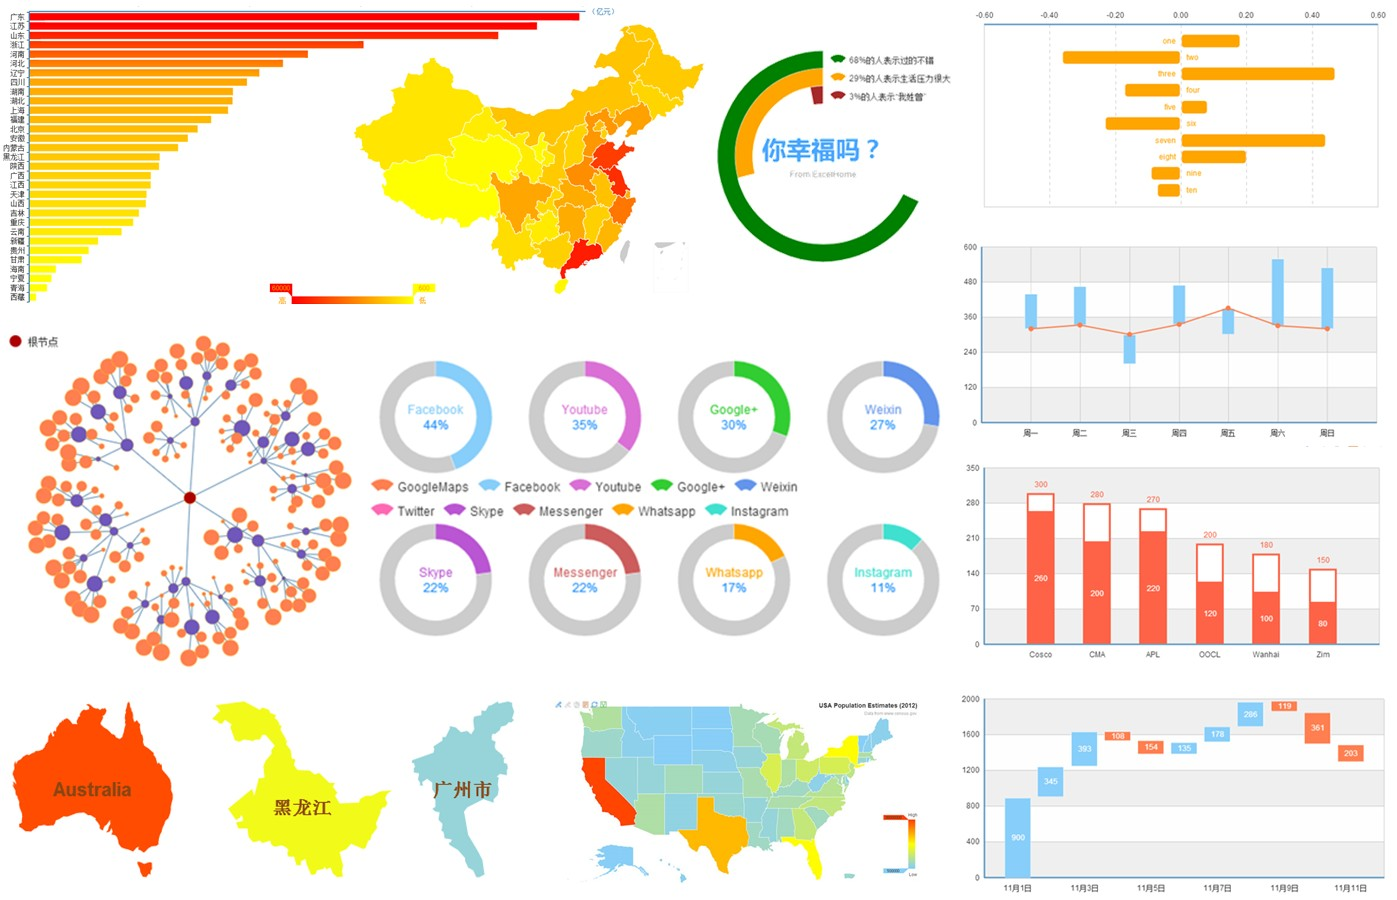
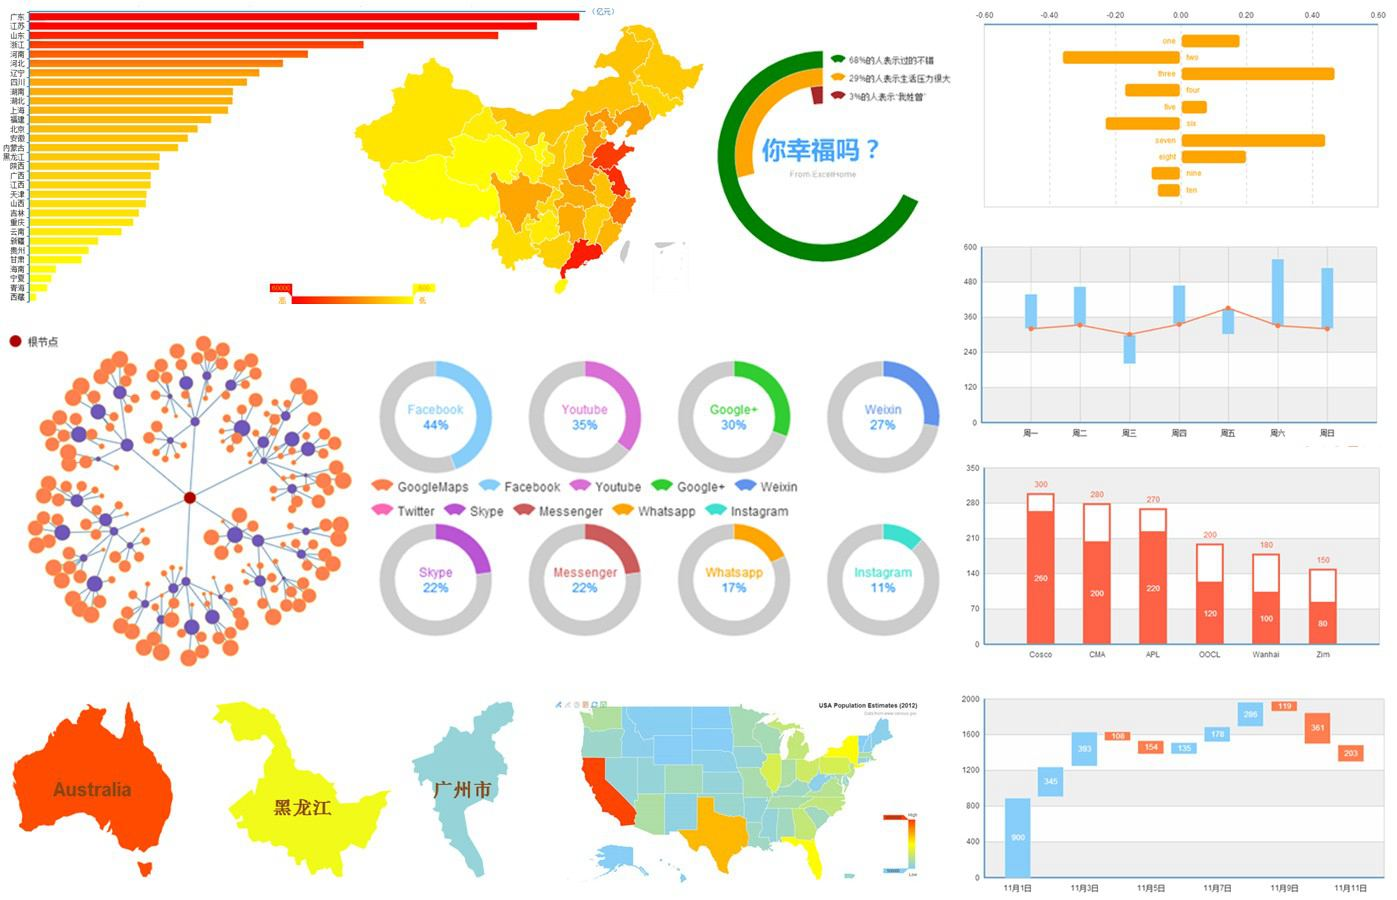
文档更新

Changed region(s): [[0.3694, 0.2178, 0.4001, 0.2489]]

diff --git a/doc/example.html b/doc/example.html
@@ -569,7 +569,7 @@
                     <h3>主题<a name="theme"> </a></h3>
                     <p>主题定制调试工具，<a href='example/themeDesigner.html' target="_blank">ECharts Theme Designer</a></p>
                     <p><small>ps:别太依赖代码编辑区，没做本地缓存，页面刷新就没了，建议使用一个本地编辑器编辑主题，只用代码区作为主题定制调试工具。主题写好试试顶部的SaveAsImage（IE8-不支持），会把所有图表合并到一张图中，这是默认样式，期待与我们联系，show出你的主题，让你的设计成为ECharts内置甚至默认主题随时有可能，我们将为您献上一份小礼品同时你的名字将被永留在贡献者名单中。</small></p>
-                    <a href="example/themeDesigner.html" target="_blank"><img src="asset/img/example/EChartsTheme.png"></a>
+                    <a href="example/themeDesigner.html" target="_blank"><img src="asset/img/example/EChartsTheme.jpg"></a>
                 <div>
                 </div>
                     <h3>专题<a name="topic"></a></h3>
